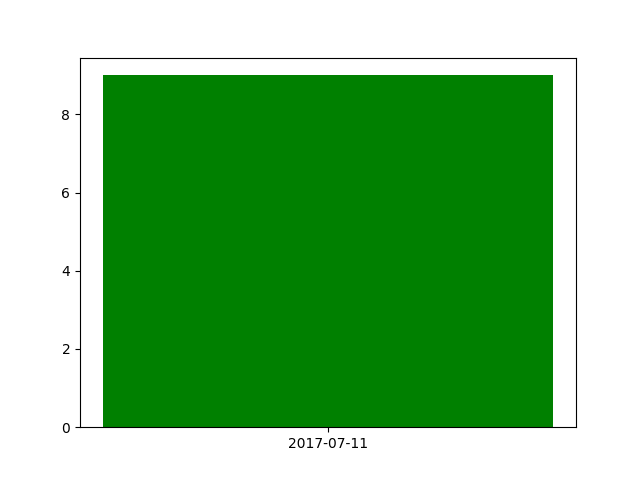
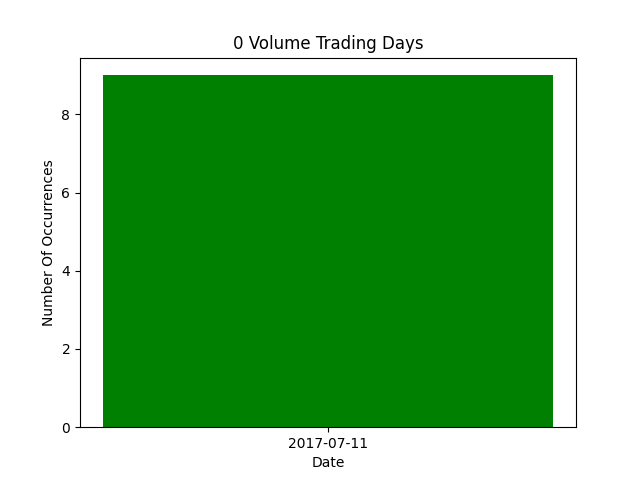
start made on main processes with model building

Changed region(s): [[0.375, 0.0625, 0.6562, 0.125], [0.0625, 0.3438, 0.0938, 0.6875], [0.5, 0.9375, 0.5312, 0.9688]]

diff --git a/raw_data_analysis.py b/raw_data_analysis.py
@@ -35,6 +35,10 @@ class raw_data_analysis:
         for value in x:
             y.append(data[data['Date'] == value].shape[0])
         plt.bar(x, y, color='green', width=0.2)
+        plt.xlabel('Date')
+        plt.ylabel('Number Of Occurrences')
+        plt.title('0 Volume Trading Days')
+
         plt.show()
 
 
